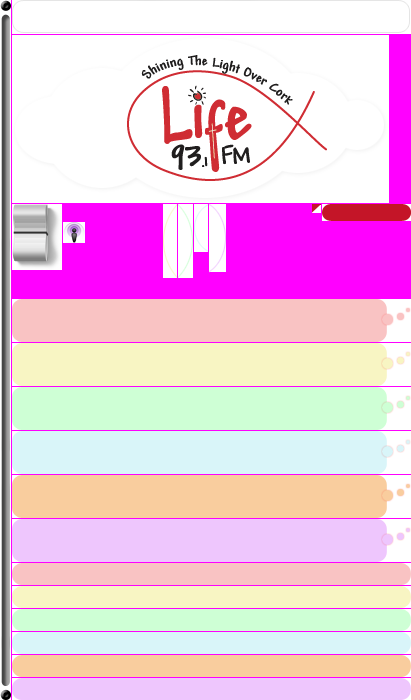
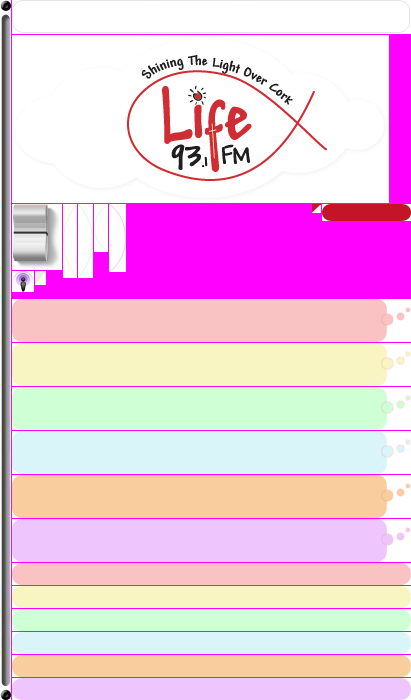
almost finished home page

Changed region(s): [[0.146, 0.27, 0.3212, 0.42], [0.3796, 0.27, 0.5547, 0.42], [0.0292, 0.39, 0.1168, 0.42]]

diff --git a/html/index.html b/html/index.html
@@ -169,15 +169,165 @@
       </div>
       <div class="g-clear"><div></div></div>
       <div class="m-layout">
-        123
-      </div>
+        <div class="m-col-left">
+          <h1><span class="g-color">Music</span> top 10</h1>
+          <ul class="m-music-top">
+            <li class="first">
+              <strong class="g-color">1.</strong>
+              <div class="b-round b-round_2-999999">
+                <a href="/"><img src="./images/pic40x30.jpg" width="40" height="30" /></a>
+              </div>
+              <p><a class="g-link-inv" href="/">Superchic[k]</a><br/>Hold</p>
+            </li>
+            <li class="first">
+              <strong class="g-color">2.</strong>
+              <div class="b-round b-round_2-999999">
+                <a href="/"><img src="./images/pic40x30.jpg" width="40" height="30" /></a>
+              </div>
+              <p><a class="g-link-inv" href="/">Brandon Heath</a><br/>Give Me Your Eyes</p>
+            </li>
+            <li class="first">
+              <strong class="g-color">3.</strong>
+              <div class="b-round b-round_2-999999">
+                <a href="/"><img src="./images/pic40x30.jpg" width="40" height="30" /></a>
+              </div>
+              <p><a class="g-link-inv" href="/">Mark Harris</a><br/>All for the Glory of You</p>
+            </li>
+            <li>
+              <strong>4.</strong>
+              <div class="b-round b-round_2-999999">
+                <a href="/"><img src="./images/pic40x30.jpg" width="40" height="30" /></a>
+              </div>
+              <p><a class="g-link-inv" href="/">Jaymes Reunion</a><br/>Fine</p>
+            </li>
+            <li>
+              <strong>5.</strong>
+              <div class="b-round b-round_2-999999">
+                <a href="/"><img src="./images/pic40x30.jpg" width="40" height="30" /></a>
+              </div>
+              <p><a class="g-link-inv" href="/">MercyMe</a><br/>You Reign</p>
+            </li>
+            <li>
+              <strong>6.</strong>
+              <div class="b-round b-round_2-999999">
+                <a href="/"><img src="./images/pic40x30.jpg" width="40" height="30" /></a>
+              </div>
+              <p><a class="g-link-inv" href="/">Jeremy Camp</a><br/>There Will Be A Day</p>
+            </li>
+            <li>
+              <strong>7.</strong>
+              <div class="b-round b-round_2-999999">
+                <a href="/"><img src="./images/pic40x30.jpg" width="40" height="30" /></a>
+              </div>
+              <p><a class="g-link-inv" href="/">Keith & Kristyn Getty</a><br/>In Christ alone</p>
+            </li>
+            <li>
+              <strong>8.</strong>
+              <div class="b-round b-round_2-999999">
+                <a href="/"><img src="./images/pic40x30.jpg" width="40" height="30" /></a>
+              </div>
+              <p><a class="g-link-inv" href="/">Relient K</a><br/>Be my escape</p>
+            </li>
+            <li>
+              <strong>9.</strong>
+              <div class="b-round b-round_2-999999">
+                <a href="/"><img src="./images/pic40x30.jpg" width="40" height="30" /></a>
+              </div>
+              <p><a class="g-link-inv" href="/">Jennifer Knapp</a><br/>A little more</p>
+            </li>
+            <li>
+              <strong>10.</strong>
+              <div class="b-round b-round_2-999999">
+                <a href="/"><img src="./images/pic40x30.jpg" width="40" height="30" /></a>
+              </div>
+              <p><a class="g-link-inv" href="/">Chris Tomlin</a><br/>Amazing Grace</p>
+            </li>
+          </ul>
+        </div>
+        <div class="m-col-center">
+          <div class="m-col-center-left">
+            <h1><a href="/">Wall of Prayer</a></h1>
 
+            <div class="m-pray-wall">
+              <div class="m-pray">
+                <div class="b-round b-round_10-eeede3">
+                  <div class="m-pray-text">
+                    Pray for the Broadcasting Commission, for our dealings with them and that our negotiations can be concluded quickly.
+                  </div>
+                </div>
+                <div class="m-pray-author"><i class="corner g-png"></i><span class="g-color">Anne Marie</span>, Iraq</div>
+              </div>
+              <div class="m-pray">
+                <div class="b-round b-round_10-eeede3">
+                  <div class="m-pray-text">
+                    Please just pray for my uncle and his wife Liz, 10 yr old son Dustin,and his two girls 1 yr old Raynee and 1 yr old Ryha. God Bless!!
+                  </div>
+                </div>
+                <div class="m-pray-author"><i class="corner g-png"></i><span class="g-color">Terry Scolley</span>, Cork</div>
+              </div>
+              <div class="m-pray">
+                <div class="b-round b-round_10-eeede3">
+                  <div class="m-pray-text">
+                    Please pray for Michael to be safe and close to God. He is having alot of trouble keeping his faith faced with the things he is seeing daily.
+                  </div>
+                </div>
+                <div class="m-pray-author"><i class="corner g-png"></i><span class="g-color">Michael Whaley</span>, Cork</div>
+              </div>
+            </div>
+
+          </div>
+          <div class="m-col-center-right">
+            <h1><a href="/">Latest news</a></h1>
+            <dl class="m-news">
+              <dt class="g-color">Financial Support</dt>
+              <dd>
+                <p>We need <a href="/">financial support</a> for the day-today operation of LifeFM. Our heartfelt thanks go to those who have given generously to the station, but we still have a long way to go!</p>
+                <ul class="dash">
+                  <li><em>Account Name</em> <big>"LIFEFM"</big></li>
+                  <li><em>Sort code</em> <big>"985488"</big></li>
+                  <li><em>Account No</em> <big>"65640032"</big></li>
+                </ul>
+              </dd>
+              <dt class="g-color">The Story So Far</dt>
+              <dd>
+                <p>After years of sowing in tears and walking by faith, the Gospel is now out over the <a href="/">airwaves of Cork</a>.</p>
+              </dd>
+              <dt class="g-color">The High Dive</dt>
+              <dd>
+                <p>Claire Bell and some friends have jumped in to help raise funds and are planning a sponsored jump from an aeroplane around Easter. They are looking for sponsors.Please contact Claire directly on 086 8371180 for more information. Have you any other way-out ideas for fundraising?</p>
+              </dd>
+            </dl>
+          </div>
+          
+          <div class="g-clear"><div></div></div>
+          
+          <h1><a href="/">Recipe of the Week</a></h1>
+          <div class="m-recipe">
+            <div class="b-round b-round_2-999999">
+              <a href="/"><img src="./images/pic115x90.jpg" width="115" height="90" /></a>
+            </div>
+            <div class="m-recipe-text">
+              <h2><a class="g-link-inv" href="/">Chicken Paella</a></h2>
+              <p>Valencia is a region on the Mediterranean coast of Spain, between Barcelona and Murcia that is known for its rice dishes. There are as many versions of paella as there are cook in Spain. Originally paella was a dish made in Valencia using chicken, rabbit, snails and three kinds of fresh beans...</p>
+            </div>
+            <div class="g-clear"><div></div></div>
+          </div>
+        </div>
+      </div>
+      <div class="g-clear"><div></div></div>
     </div>
   </div>
 
   <div class="g-page-bottom g-limit g-centered">
-    <div class="m-layout">
-      footer
+    <div class="m-footer">
+      <div class="m-layout">
+        <div class="m-col-left">
+          <p class="copyright">&copy; 2008 Life Fm. All rights reserved.<br/><a class="g-link-inv" href="/">Login for staff</a></p>
+        </div>
+        <div class="m-col-center">
+          <p><a class="g-pseudo-link" href="#"><span>Subscribe to Newsletter</span></a></p>
+        </div>
+      </div>
     </div>
   </div>
 

diff --git a/html/stylesheets/main/main.css b/html/stylesheets/main/main.css
@@ -11,13 +11,18 @@
 
 /* Main layout styles (end) */
 
-.m-header .m-header-search .search-bg i,
-.m-header .menu .menu-top,
-.m-header .menu .menu-bottom,
-.m-header .menu ul li i,
-.m-header .menu ul li.selected i.slider,
-.m-header .logo .cloud
-{ background: url(interface.png) no-repeat 0 0; }
+/* interface background */
+
+  .m-header .m-header-search .search-bg i,
+  .m-header .menu .menu-top,
+  .m-header .menu .menu-bottom,
+  .m-header .menu ul li i,
+  .m-header .menu ul li.selected i.slider,
+  .m-header .logo .cloud,
+  .m-pray-wall .m-pray-author i.corner  
+  { background: url(interface.png) no-repeat 0 0; }
+
+/* interface background (end) */
 
 /* Styles for header */
 
@@ -74,10 +79,10 @@
   
   .m-header #lifefmPlayer { position: absolute; right: 50%; top: -24px; margin-right: -65px; }
   
-  .m-header .banner { top: 130px; width: 100%; margin-bottom: 25px; }
+  .m-header .banner { top: 130px; margin-bottom: 25px; margin-left: -12px; }
   .m-header .banner .b-round { height: 130px; }
   
-  .m-header .verse { margin-bottom: 20px; }
+  .m-header .verse { margin-bottom: 30px; }
   .m-header .verse .m-col-center-left { text-align: right; }
   .m-header .verse .m-col-center-left h2 { font-size: 18px; color: #c41528; margin-right: 20px; position: relative; top: -0.1em; }
   .m-header .verse .m-col-center-left h2 span { color: black; display: block; font-size: 12px; }
@@ -85,4 +90,52 @@
   .m-header .verse .m-col-center-right p { width: 98%; font-size: 12px; }
   
 /* Styles for header (end) */
+
+/* Styles for footer */
+
+  .m-footer { border-top: 1px solid #cccccc; padding-top: 25px; }
+  .m-footer .copyright { text-indent: -1.2em; }
+
+/* Styles for footer (end) */
+
+
+
+/* List style with &mdash; */
+
+  ul.dash { margin-top: 0.4em; padding-left: 1.4em; }
+  ul.dash li { line-height: 140%; }
+  .dj_ie ul.dash li { behavior: expression( !this.before && this.parentNode && this.parentNode.nodeName == 'UL' ? this.before = this.innerHTML = '<span class="bullet">&mdash;&nbsp;</span>' + this.innerHTML : '' ); text-indent: expression( this.parentNode && this.parentNode.nodeName == 'UL' ? '-2.3em' : 0 ); }
+  ul.dash>li { text-indent:-1.3em; }
+  ul.dash>li:before { content:'\2014\a0'; }
+
+/* List style with &mdash; (end) */
+
+/* Content blocks */
+
+  .m-music-top { margin-top: 15px; width: 90%; }
+  .m-music-top li { position: relative; height: 50px; }
+  .m-music-top li strong { position: absolute; font-size: 16px; width: 30px; left: -38px; top: 8px; text-align: right; font-weight: normal; }
+  .m-music-top li.first strong { font-size: 20px; top: 4px; }
+  .m-music-top li .b-round { width: 44px; height: 34px; position: relative; left: -2px; float: left; }
+  .m-music-top li .b-round img { margin: 2px 0 0 2px; }
+  .m-music-top li p { margin-left: 50px; font-size: 14px; }
   
+  .m-pray-wall { width: 90%; margin-top: 10px; padding-bottom: 20px; }
+  .m-pray-wall .m-pray { margin-left: -12px; margin-bottom: 25px; }
+  .m-pray-wall .m-pray .m-pray-text { padding: 8px 12px; font-size: 14px; line-height: 130%; }
+  .m-pray-wall .m-pray-author { text-align: right; margin-right: 40px; position: relative; padding-top: 2px; }
+  .m-pray-wall .m-pray-author i.corner { width: 11px; height: 14px; position: absolute; right: -14px; top: 0; background-position: -35px -271px; }
+  
+  .m-news { margin-top: 15px; width: 90%; padding-bottom: 25px; }
+  .m-news dt { font-size: 18px; margin-bottom: 2px; }
+  .m-news dd { margin-bottom: 20px; }
+  .m-news dd p { margin-bottom: 1em; }
+  .m-news dd ul, .m-news dd ol { font-size: 12px; margin-left: 8px; } 
+  .m-news dd ul li, .m-news dd ol li { margin-bottom: 0.2em; }
+  .m-news dd big { font-size: 14px !important; }
+  
+  .m-recipe { margin-top: 15px; width: 80%; margin-bottom: 20px; }
+  .m-recipe .b-round { width: 119px; height: 94px; float: left; }
+  .m-recipe .b-round img { margin: 2px 0 0 2px; }
+  .m-recipe .m-recipe-text { margin-left: 130px; padding-top: 4px; }
+  .m-recipe .m-recipe-text h2 { margin-bottom: 4px; }

diff --git a/html/stylesheets/global/global.css b/html/stylesheets/global/global.css
@@ -48,13 +48,15 @@
  
   /* Pre-define headers */
   h1, h2, h3, h4, h5 { font-weight: normal; position: relative; }
+  h1 { font-size: 24px; }
+  h2 { font-size: 18px; }
   
 /* Global definitions (end) */
 
 /* Footer at the bottom edge of screen */
  
   .g-page { position: relative; min-height: 100%; }
-  .g-page .g-page { min-height: 0; padding-bottom: 170px; }
-  .g-page-bottom { z-index: 1; clear: both; position: relative; margin-top: -150px; height: 145px; }
+  .g-page .g-page { min-height: 0; padding-bottom: 140px; }
+  .g-page-bottom { z-index: 1; clear: both; position: relative; margin-top: -100px; height: 95px; }
  
 /* Footer at the bottom edge of screen (end) */

diff --git a/html/stylesheets/global/global.ie6.css b/html/stylesheets/global/global.ie6.css
@@ -2,6 +2,6 @@
  
   .g-page { height: 100%; }
   .g-page .g-page { height: auto; }
-  .g-page-bottom { margin-top: 0; top: -150px; margin-bottom: -146px; }
+  .g-page-bottom { margin-top: 0; top: -100px; margin-bottom: -96px; }
  
 /* Footer at the bottom edge of screen (end) */

diff --git a/html/stylesheets/global/b-round.css b/html/stylesheets/global/b-round.css
@@ -9,4 +9,13 @@
     IEBorderRadius: 10px;
   }  
 
+  .b-round_2-999999 {
+    background-color: #999999;
+    border-radius: 2px;
+  
+    -moz-border-radius: 2px;
+    -webkit-border-radius: 2px;
+    IEBorderRadius: 2px;
+  }  
+
 /* Round sets (end) */
